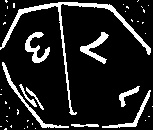
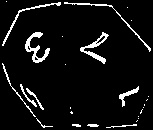
Added default model path and pipeline images example.

diff --git a/run_pipeline_ocr.py b/run_pipeline_ocr.py
@@ -19,7 +19,6 @@ def binarize_image(roi_image):
         tuple[np.ndarray, np.ndarray]: A tuple containing the grayscale image and the binary image.
     """
     # Convert PIL Image to OpenCV format (BGR) and then to grayscale
-    scaled_image = cv2.resize(np.array(roi_image), (640, 480))  # Resize for consistency
     open_cv_image = cv2.cvtColor(np.array(roi_image), cv2.COLOR_RGB2BGR)
     blurred_image = cv2.GaussianBlur(open_cv_image, (5, 5), 0)
     gray = cv2.cvtColor(blurred_image, cv2.COLOR_BGR2GRAY)
@@ -29,7 +28,7 @@ def binarize_image(roi_image):
         gray, 255,
         cv2.ADAPTIVE_THRESH_GAUSSIAN_C,
         cv2.THRESH_BINARY,
-        11, # A slightly larger block size can sometimes help
+        5, # A slightly larger block size can sometimes help
         -4
     )
     return gray, binary_image
@@ -144,16 +143,17 @@ def run_pipeline(model_path, source_path, conf_threshold, output_dir, debug):
         gray_image, binary_image = binarize_image(roi)
         if debug:
             cv2.imwrite(os.path.join(instance_dir, "02_binary_for_ocr.jpg"), binary_image)
+            cv2.imwrite(os.path.join(instance_dir, "03_grayscale.jpg"), gray_image)
 
-        print(f"--- Processing '{instance_name}' with OCR ---")
-        detected_number, final_image = find_and_orient_numbers(binary_image, roi)
+        # print(f"--- Processing '{instance_name}' with OCR ---")
+        # detected_number, final_image = find_and_orient_numbers(binary_image, roi)
 
-        if detected_number:
-            final_path = os.path.join(instance_dir, f"{instance_name}_ocr_result_{detected_number}.jpg")
-            cv2.imwrite(final_path, final_image)
-            print(f"SUCCESS: Final image with OCR result saved to: {final_path}\n")
-        else:
-            print(f"FAILURE: Could not determine the top number for '{instance_name}'.\n")
+        # if detected_number:
+            # final_path = os.path.join(instance_dir, f"{instance_name}_ocr_result_{detected_number}.jpg")
+            # cv2.imwrite(final_path, final_image)
+            # print(f"SUCCESS: Final image with OCR result saved to: {final_path}\n")
+        # else:
+            # print(f"FAILURE: Could not determine the top number for '{instance_name}'.\n")
 
 
 if __name__ == "__main__":

diff --git a/run_pipeline.py b/run_pipeline.py
@@ -147,8 +147,8 @@ def run_pipeline(model_path, source_path, conf_threshold, output_dir, debug):
 
 if __name__ == "__main__":
     parser = argparse.ArgumentParser(description="Full pipeline to detect dice and find number blobs.")
-    parser.add_argument("--model", required=True, help="Path to the YOLOv8 model file.")
     parser.add_argument("--source", required=True, help="Path to the source image.")
+    parser.add_argument("--model", help="Path to the YOLOv8 model file.", default="Detector/best.pt")
     parser.add_argument("--confidence", type=float, default=0.5, help="Confidence threshold for detections.")
     parser.add_argument("--output_dir", default="pipeline_output", help="Main directory to save all outputs.")
     parser.add_argument("--debug", action="store_true", help="If set, saves all intermediate processing steps.")
